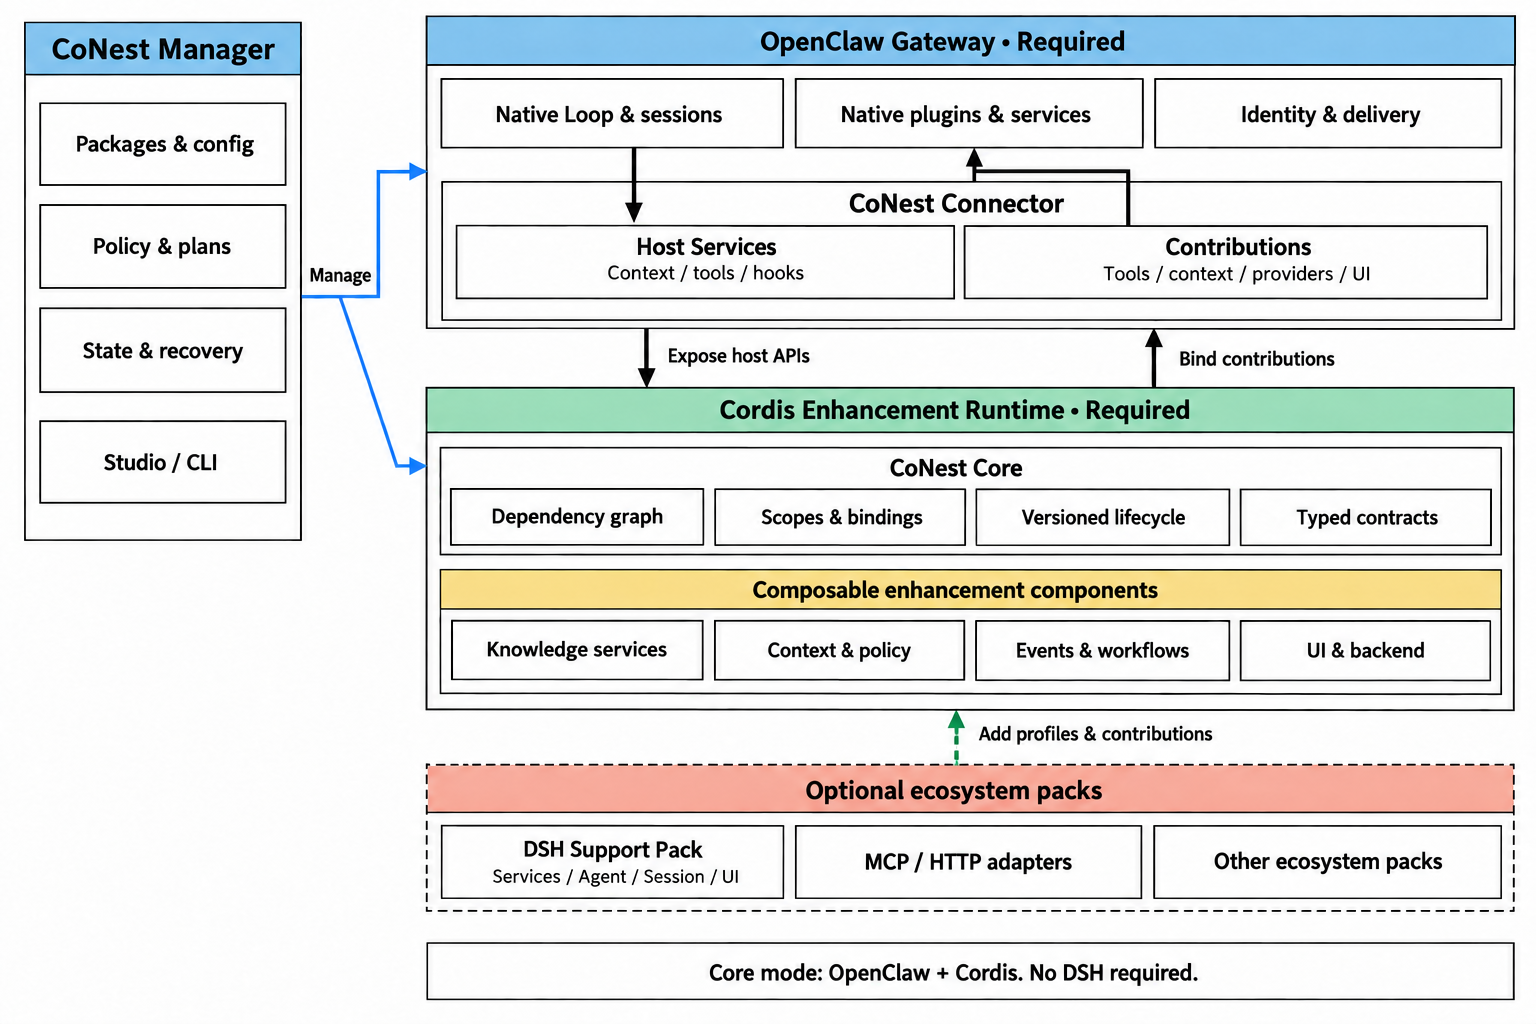
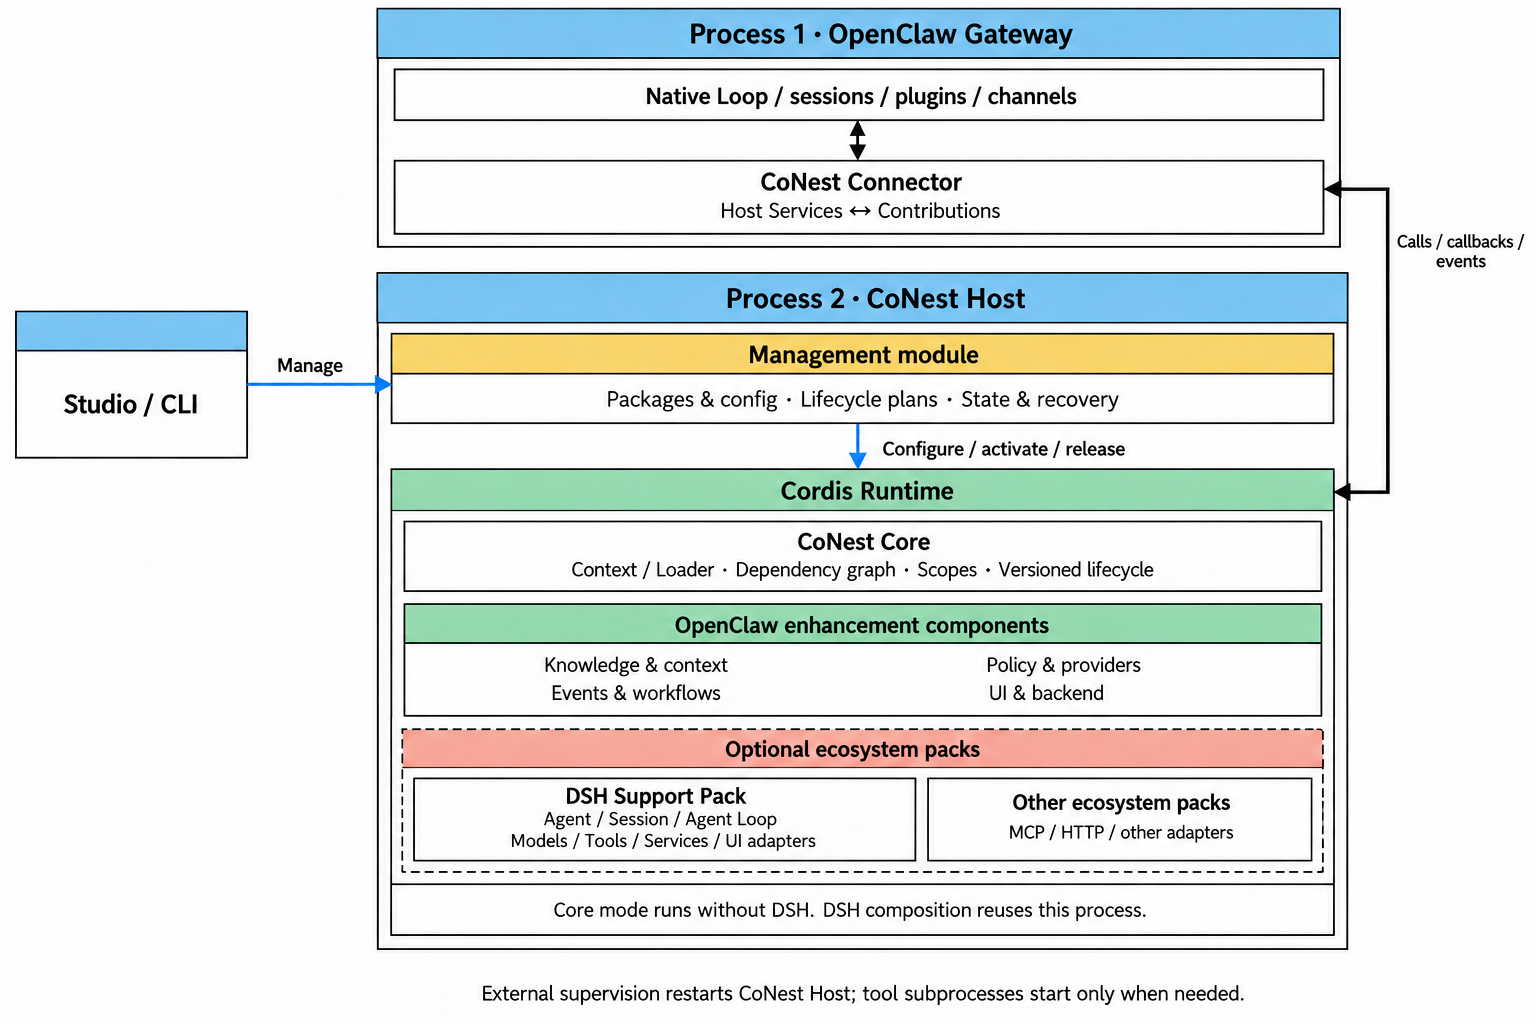
docs: consolidate management and DSH composition into CoNest Host

diff --git a/README.md b/README.md
@@ -20,6 +20,8 @@
 
 CoNest connects **OpenClaw** with **DeepSeek Harness (DSH)**. Choose an agent loop, use tools from both ecosystems, and share memory between tasks in one workspace. CoNest Runtime manages the underlying Cordis components; Studio provides the interface and execution history.
 
+The [target architecture (中文)](DESIGN-zh.md) extends Cordis-based OpenClaw enhancement to work without DSH. Its default deployment uses two persistent application processes: Gateway and CoNest Host. Management, Runtime and optional DSH compositions share the Host; migration from the current implementation is planned.
+
 <table>
 <tr><td width="50%">
 

diff --git a/README-zh.md b/README-zh.md
@@ -20,6 +20,8 @@
 
 CoNest 是连接 **OpenClaw** 与 **DeepSeek Harness（DSH）** 的插件。你可以在同一工作台选择 Agent Loop、调用双方工具，并在不同 Loop 的任务间共享记忆。底层 Cordis 组件由 CoNest Runtime 管理，Studio 提供统一入口和执行记录。
 
+[目标架构](DESIGN-zh.md) 将 Cordis 对 OpenClaw 的增强扩展为不依赖 DSH 也能运行的模式。默认采用 Gateway 与 CoNest Host 两个常驻应用进程；Management、Runtime 和可选 DSH 组合共享 Host。该结构是后续迁移目标，尚未全部实现。
+
 <table>
 <tr><td width="50%">
 
